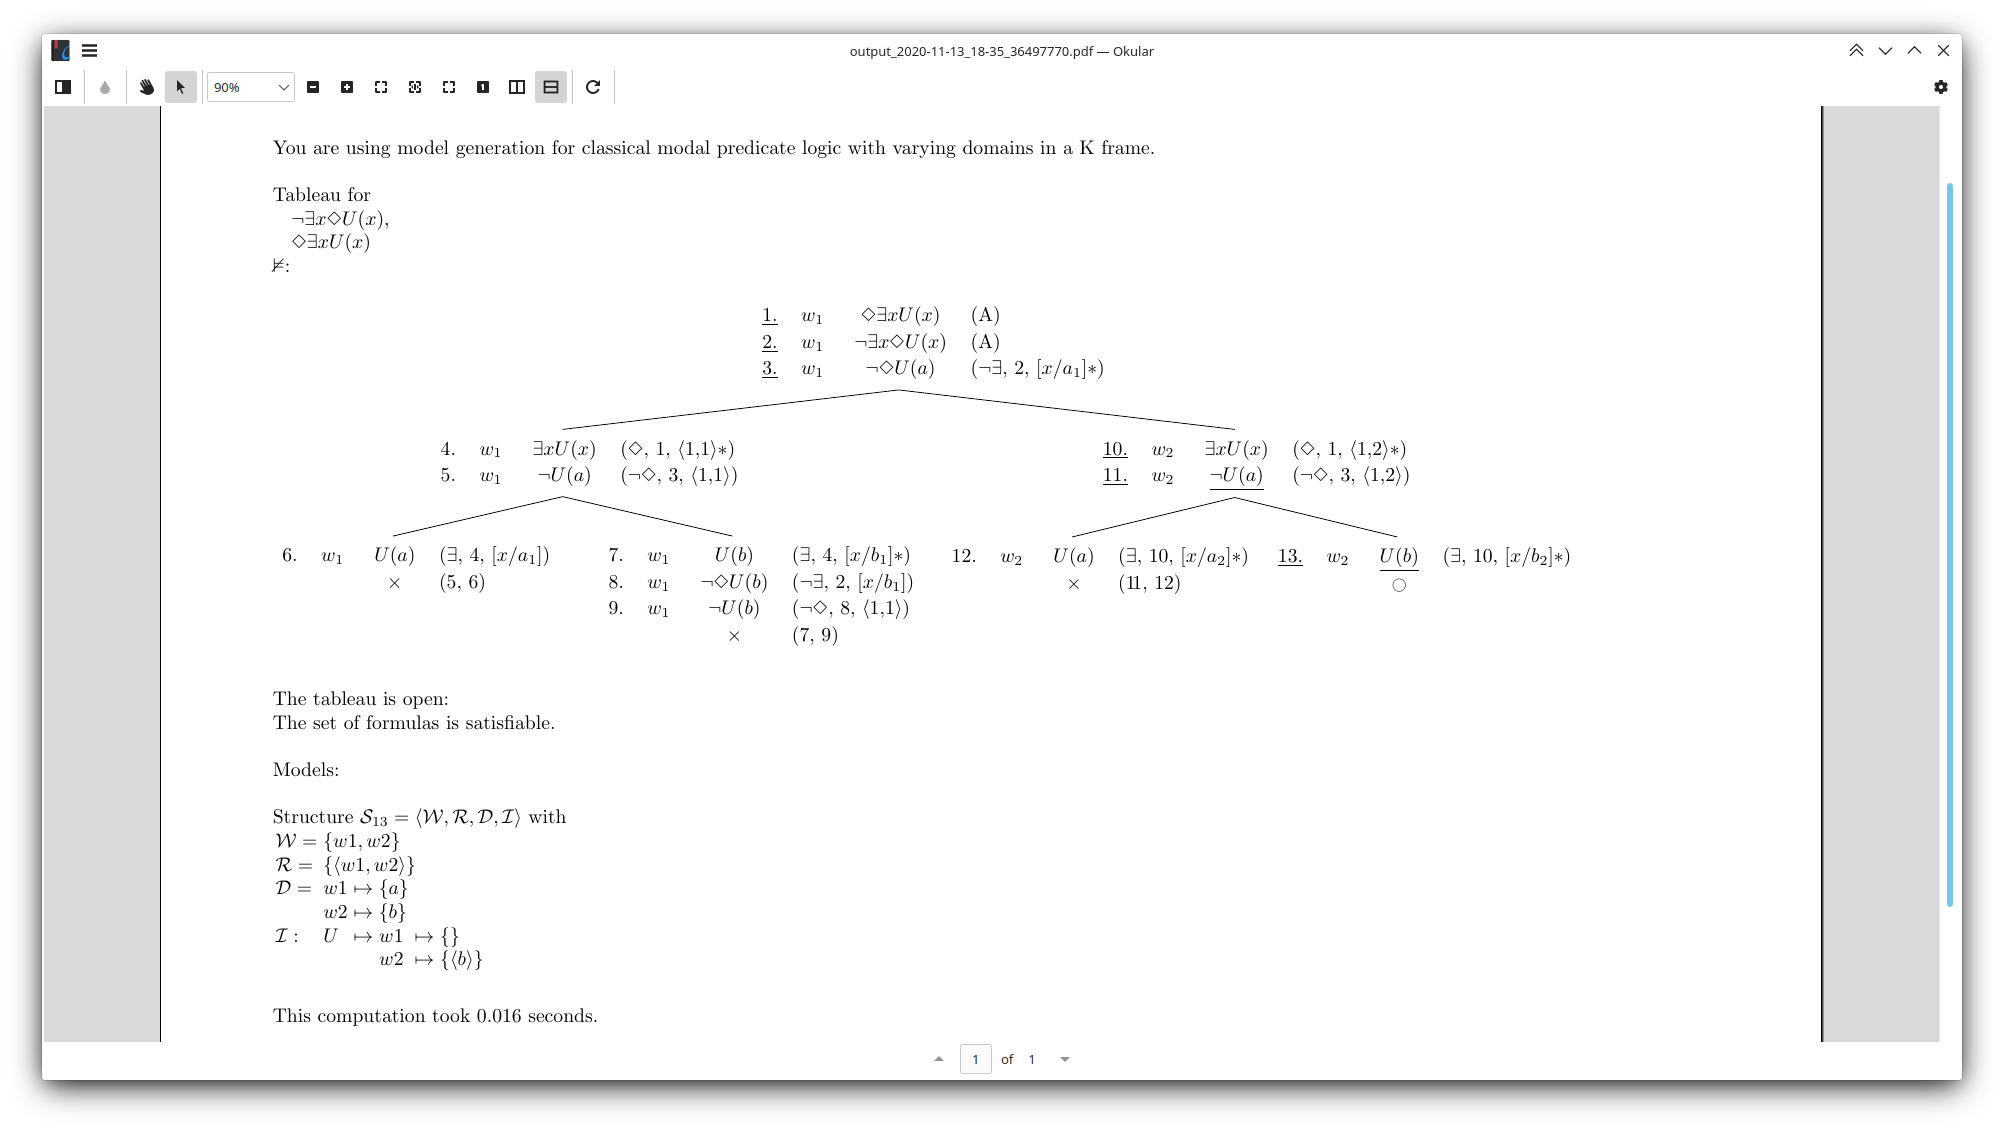
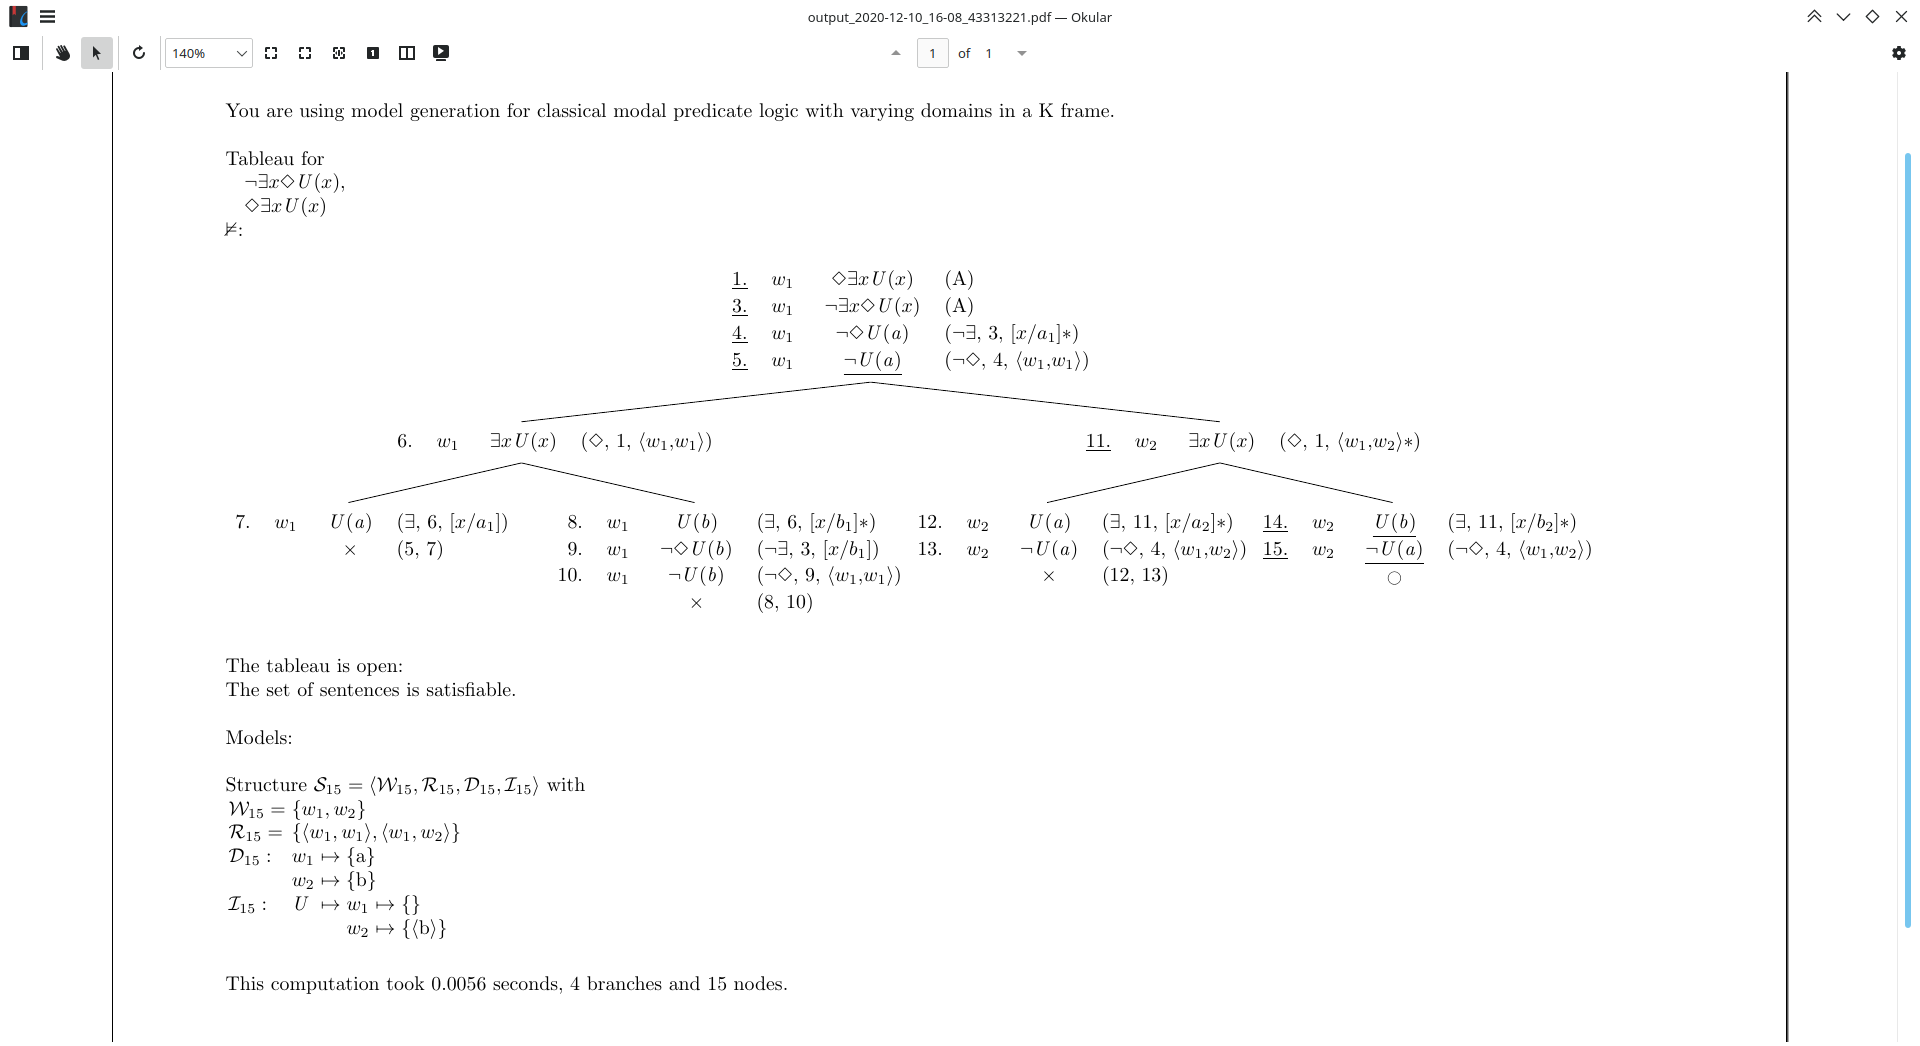
local vs global validity for modal logic

diff --git a/gui.py b/gui.py
@@ -30,7 +30,8 @@ class PyPLInst:
         self.premises = []
         self.formulas = []
         self.structure = None
-        self.logic = {"proppred": "pred", "classint": "class", "modal": "nonmodal", "constvar": "var", "frame": "K"}
+        self.logic = {"proppred": "pred", "classint": "class", "modal": "nonmodal", 
+                      "constvar": "var", "locglob": "local", "frame": "K"}
 
         self.output = "tex"
         self.generation_mode = "mathematical"
@@ -926,17 +927,22 @@ class PyPLGUI(tk.Frame):
 
         def update_availability():
             if self.inst.logic["modal"] == "modal":
-                self.rbs_logic["frame"]["K"].config(state="normal")
                 if self.inst.logic["proppred"] == "pred":
                     self.rbs_logic["constvar"]["const"].config(state="normal")
                     self.rbs_logic["constvar"]["var"].config(state="normal")
                 else:
                     self.rbs_logic["constvar"]["const"].config(state="disabled")
                     self.rbs_logic["constvar"]["var"].config(state="disabled")
+                self.rbs_logic["locglob"]["local"].config(state="normal")
+                self.rbs_logic["locglob"]["global"].config(state="normal")
+                self.rbs_logic["frame"]["K"].config(state="normal")
             else:
-                self.rbs_logic["frame"]["K"].config(state="disabled")
                 self.rbs_logic["constvar"]["const"].config(state="disabled")
                 self.rbs_logic["constvar"]["var"].config(state="disabled")
+                self.rbs_logic["locglob"]["local"].config(state="disabled")
+                self.rbs_logic["locglob"]["global"].config(state="disabled")
+                self.rbs_logic["locglob"]["global"].config(fg=black)
+                self.rbs_logic["frame"]["K"].config(state="disabled")
 
         def reset():
             for cat_ in self.rbs_logic:
@@ -961,7 +967,7 @@ class PyPLGUI(tk.Frame):
         # mid
         mid = tk.Frame(tab, bg=white)
         mid.pack()
-        mids = {i: tk.Frame(mid, bg=white) for i in range(5)}
+        mids = {i: tk.Frame(mid, bg=white) for i in range(9)}
         for i in mids:
             mids[i].pack(ipadx=0, ipady=5)
 
@@ -972,14 +978,21 @@ class PyPLGUI(tk.Frame):
                             # font=("OpenSans", "12", "bold"),
                             anchor=tk.NW, justify=tk.LEFT) \
             .pack(in_=top)
+        lbl_headmodal = tk.Label(tab,
+                            bg=white,
+                            text="For modal logic:",
+                            # font=("OpenSans", "12", "bold"),
+                            anchor=tk.NW, justify=tk.LEFT) \
+            .pack(in_=mids[4])
 
         # selection
-        categories = ["proppred", "classint", "modal", "constvar", "frame"]
+        categories = ["proppred", "classint", "modal", "constvar", "locglob", "frame"]
         labels = {
                 "proppred": [("propositional logic", "prop"), ("predicate logic", "pred")],
                 "classint": [("classical", "class"), ("intuitionistic", "int")],
                 "modal":    [("non-modal", "nonmodal"), ("modal", "modal")],
-                "constvar": [("with constant domains", "const"), ("with varying domains", "var")],
+                "constvar": [("constant domains", "const"), ("varying domains", "var")],
+                "locglob":  [("local validity", "local"), ("global validity", "global")],
                 "frame":    [("frame K", "K")]
         }
         variables = {
@@ -987,12 +1000,14 @@ class PyPLGUI(tk.Frame):
                 "classint": tk.StringVar(None, self.inst.logic["classint"]),
                 "modal":    tk.StringVar(None, self.inst.logic["modal"]),
                 "constvar": tk.StringVar(None, self.inst.logic["constvar"]),
+                "locglob":  tk.StringVar(None, self.inst.logic["locglob"]),
                 "frame":    tk.StringVar(None, self.inst.logic["frame"])
         }
         self.rbs_logic = {cat: dict() for cat in categories}
         for i, cat in enumerate(categories):
+            i += 2 if cat in ["constvar", "locglob", "frame"] else 0
             for j, (txt, val) in enumerate(labels[cat]):
-                enabled = False if cat in ["constvar", "frame"] else True
+                enabled = False if cat in ["constvar", "locglob", "frame"] else True
                 rb = tk.Radiobutton(tab,
                                     bg=white,
                                     fg=black if enabled else white,
@@ -1008,6 +1023,12 @@ class PyPLGUI(tk.Frame):
                     initial_select_rb((rb, cat))
                 rb.pack(in_=mids[i], side=(tk.LEFT if j == 0 else tk.RIGHT))  # todo slightly off-center
                 self.rbs_logic[cat][val] = rb
+
+        Tooltip(self.rbs_logic["constvar"]["const"], "all worlds share the same domain of discourse")
+        Tooltip(self.rbs_logic["constvar"]["var"], "each world has its own domain of discourse")
+        Tooltip(self.rbs_logic["locglob"]["local"], "check truth perservance per world")
+        Tooltip(self.rbs_logic["locglob"]["global"], "check truth preservance per structure")
+        Tooltip(self.rbs_logic["frame"]["K"], "no additional frame properties")
 
     def tab_4(self):  # 4. Settings
         # todo config file for default settings
@@ -1302,17 +1323,18 @@ class PyPLGUI(tk.Frame):
 
         # settings
 
-        classical = True if self.inst.logic["classint"] == "class" else False
-        propositional = True if self.inst.logic["proppred"] == "prop" else False
-        modal = True if self.inst.logic["modal"] == "modal" else False
-        vardomains = True if self.inst.logic["constvar"] == "var" else False
+        classical = self.inst.logic["classint"] == "class"
+        propositional = self.inst.logic["proppred"] == "prop"
+        modal = self.inst.logic["modal"] == "modal"
+        vardomains = self.inst.logic["constvar"] == "var"
+        local = self.inst.logic["locglob"] == "local"
         frame = self.inst.logic["frame"]
-        linguistic = True if self.inst.generation_mode == "linguistic" else False
+        linguistic = self.inst.generation_mode == "linguistic"
 
-        latex = True if self.inst.output == "tex" else False
-        stepwise = True if self.inst.stepwise else False
-        underline_open = True if self.inst.underline_open else False
-        hide_nonopen = True if self.inst.hide_nonopen else False
+        latex = self.inst.output == "tex"
+        stepwise = self.inst.stepwise
+        underline_open = self.inst.underline_open
+        hide_nonopen = self.inst.hide_nonopen
         num_models = self.inst.num_models
         size_limit = self.inst.size_limit_factor
 
@@ -1344,7 +1366,7 @@ class PyPLGUI(tk.Frame):
             tableau.Tableau(concl, premises=premises, axioms=axioms,
                             validity=validity, satisfiability=satisfiability, linguistic=linguistic,
                             classical=classical, propositional=propositional,
-                            modal=modal, vardomains=vardomains, frame=frame,
+                            modal=modal, vardomains=vardomains, local=local, frame=frame,
                             silent=True, file=True, latex=latex, stepwise=stepwise,
                             num_models=num_models, size_limit_factor=size_limit,
                             underline_open=underline_open, hide_nonopen=hide_nonopen).show()
@@ -1354,7 +1376,7 @@ class PyPLGUI(tk.Frame):
             tab1 = tableau.Tableau(concl, premises=premises, axioms=axioms,
                                    validity=True, satisfiability=False, linguistic=linguistic,
                                    classical=classical, propositional=propositional,
-                                   modal=modal, vardomains=vardomains, frame=frame,
+                                   modal=modal, vardomains=vardomains, local=local, frame=frame,
                                    silent=True, file=True, latex=latex, stepwise=stepwise,
                                    num_models=num_models, size_limit_factor=size_limit,
                                    underline_open=underline_open, hide_nonopen=hide_nonopen)
@@ -1366,7 +1388,7 @@ class PyPLGUI(tk.Frame):
                 tab2 = tableau.Tableau(concl, premises=premises, axioms=axioms,
                                        validity=False, satisfiability=False, linguistic=linguistic,
                                        classical=classical, propositional=propositional,
-                                       modal=modal, vardomains=vardomains, frame=frame,
+                                       modal=modal, vardomains=vardomains, local=local, frame=frame,
                                        silent=True, file=True, latex=latex, stepwise=stepwise,
                                        num_models=num_models, size_limit_factor=size_limit,
                                        underline_open=underline_open, hide_nonopen=hide_nonopen)

diff --git a/tableau.py b/tableau.py
@@ -62,7 +62,7 @@ class Tableau(object):
     def __init__(self,
                  conclusion=None, premises=[], axioms=[],
                  validity=True, satisfiability=True, linguistic=False,
-                 classical=True, propositional=False, modal=False, vardomains=False, frame="K",
+                 classical=True, propositional=False, modal=False, vardomains=False, frame="K", local=True,
                  num_models=1, size_limit_factor=2,
                  file=True, latex=True, stepwise=False, hide_nonopen=False, underline_open=True, silent=False):
 
@@ -72,7 +72,7 @@ class Tableau(object):
         self.mode = {
                 "validity":  validity, "satisfiability": satisfiability, "linguistic": linguistic,
                 "classical": classical, "propositional": propositional,
-                "modal":     modal, "vardomains": vardomains, "frame": frame
+                "modal":     modal, "vardomains": vardomains, "frame": frame, "local": local,
         }
         self.num_models, self.size_limit_factor, \
         self.silent, self.file, self.latex, self.stepwise, self.hide_nonopen, self.underline_open = \
@@ -98,21 +98,22 @@ class Tableau(object):
         for i, el in enumerate([conclusion] + premises + axioms):
             negated_concl = action in ["tp", "cmg"]
             initial_world = (modal or not classical) and action in ["tp", "cmg"]
-            if isinstance(el, tuple):
+            if isinstance(el, tuple):  # v and w given
                 fmls[i], vs[i], ws[i] = el[0], el[1], el[2]
                 ws[i] = int(ws[i][1:]) if "w" in ws[i] else int(ws[i]) if ws[i] else None
-            else:
+            else:  # only fml given
                 fmls[i] = el
                 vs[i] = None
                 ws[i] = 1 if initial_world else None
-            if i == 0 and negated_concl:
+            if i == 0 and negated_concl:  # negate conclusion assumption
                 fmls[i] = Neg(fmls[i])
-            if (modal or not classical) and action in ["mg"] and not ws[i] and ws[i] != 0:
+            if ((modal or not classical) and action in ["mg"] and not ws[i] and ws[i] != 0) or \
+                    not self.mode["local"] and i > 0:  # make fml true in all worlds
                 fmls[i] = AllWorlds(fmls[i])
 
         self.root = Node(None, self, line, ws[0], fmls[0], rule, source, inst)
         self.conclusion = conclusion if not isinstance(conclusion, tuple) else conclusion[0]
-        self.premises = [self.root.leaves()[0].add_child((self, i + 2, ws[i], fmls[i], rule, source, inst))
+        self.premises = [self.root.leaves()[0].add_child((self, i + 1, ws[i], fmls[i], rule, source, inst))
                          for i in range(1, len(premises)+1)]
         max_line = max([node.line for node in self.root.nodes() if node.line])
         self.axioms = [self.root.leaves()[0].add_child((self, i + max_line + 1, ws[i], fmls[i], "Ax", source, inst))
@@ -171,6 +172,8 @@ class Tableau(object):
                 "logic" + \
                 (" with " + ("varying " if self.mode["vardomains"] else "constant ") + "domains"
                  if self.mode["modal"] and not self.mode["propositional"] else "") + \
+                ((" and " if not self.mode["propositional"] else " with ") +
+                 ("local " if self.mode["local"] else "global ") + "validity" if self.mode["modal"] else "") +\
                 (" in a " + self.mode["frame"] + " frame"
                  if self.mode["modal"] else "") + \
                 "." + ("\\\\" if self.latex else "") + "\n\n"
@@ -1677,11 +1680,11 @@ class Node(object):
                 not any([self in branch for branch in open_branches]):
             return ""
         colspec = ("{R{4.5em}cL{4.5em}}" if self.tableau.mode["propositional"] else "{R{7.5em}cL{7.5em}}") \
-            if not self.tableau.mode["modal"] else "{R{5em}L{1.5em}cL{7.5em}}"
-        ssep = "-4em" if self.tableau.mode["propositional"] else "-7em" if not self.tableau.mode["modal"] else \
-            "-5em"
-        hoffset = "-4.5em" if self.tableau.mode["propositional"] else "-7.5em" if not self.tableau.mode["modal"] else \
-            "-5em"
+            if not self.tableau.mode["modal"] else "{R{5.4em}L{1.5em}cL{8em}}"
+        ssep = ("-4em" if self.tableau.mode["propositional"] else "-7em") if not self.tableau.mode["modal"] else \
+            "-4.5em"
+        hoffset = ("-4.5em" if self.tableau.mode["propositional"] else "-7.5em") if not self.tableau.mode["modal"] else \
+            "-4.5em"  # todo not entirely accurate
         res = ""
         if root:
             res += "\\hspace*{%s}\n" % hoffset

diff --git a/expr.py b/expr.py
@@ -2184,7 +2184,7 @@ class Poss(Formula):
 class Nec(Formula):
     """
     Necessity.
-    ◻φ
+    □φ
 
     @attr phi: the formula to apply the modal operator to
     @type phi: Formula
@@ -2194,7 +2194,7 @@ class Nec(Formula):
         self.phi = phi
 
     def __str__(self):
-        return "☐" + str(self.phi)
+        return "□" + str(self.phi)
 
     def tex(self):
         return "\\Box " + " " + self.phi.tex()

diff --git a/parser.py b/parser.py
@@ -68,7 +68,7 @@ class FmlParser:
             "More": r"\\more",
             # modal operators
             "Poss": r"(◇|\*|\\Diamond|\\poss)",
-            "Nec": r"(◻|#|\\Box||\\nec)",
+            "Nec": r"(□|#|\\Box||\\nec)",
             "Int": r"\\int",
             "Ext": r"\\ext"
         }

diff --git a/README.md b/README.md
@@ -5,7 +5,7 @@ for some combinations of classical and intuitionistic, non-modal and modal, prop
 
 This tool can compute  
 - the denotation (truth value) of a given logical expression in a given structure,  
-- an analytic tableau with associated (counter) models for a given inference or set of formulas.
+- an analytic tableau with associated minimal (counter) models for a given inference or set of sentences.
 
 © Natalie Clarius <natalie.clarius@student.uni-tuebingen.de>  
 License: CC BY-NC-SA 4.0 (https://creativecommons.org/licenses/by-nc-sa/4.0/).   
@@ -51,7 +51,7 @@ For troubleshooting information, see `pyPL/doc/troubleshooting.md`.
 ### Logics
 - propositional logic
 - first-order logic with zero-place predicates, function symbols and term equality
-- intensional logic with operators ◻, ◇, ^, ⱽ; propositional, constant and varying domains; frame K
+- intensional logic with operators □, ◇, ^, ⱽ; propositional, constant and varying domains; frame K
 - intuitionistic logic with Kripke semantics (only model checking)
 
 ### Interface

diff --git a/doc/parser.md b/doc/parser.md
@@ -100,7 +100,7 @@ Example: `\more x(Boy(x), Girl(x), Sleep(x))`.
 `◇`, `*`, `\Diamond`, `\poss`
 
 ### Necessity
-`◻`, `#`, `\Box`, `\nec`
+`□`, `#`, `\Box`, `\nec`
 
 ### Intension
 `\int`
